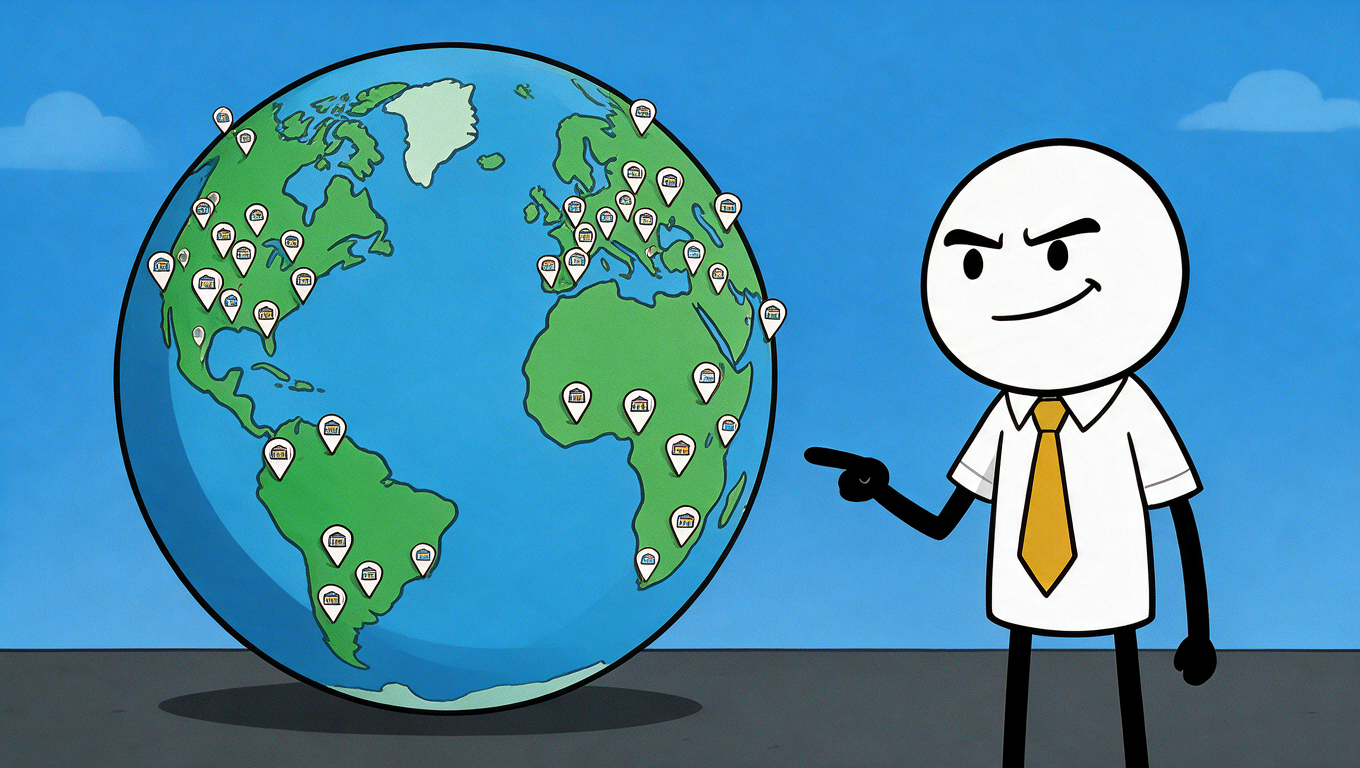
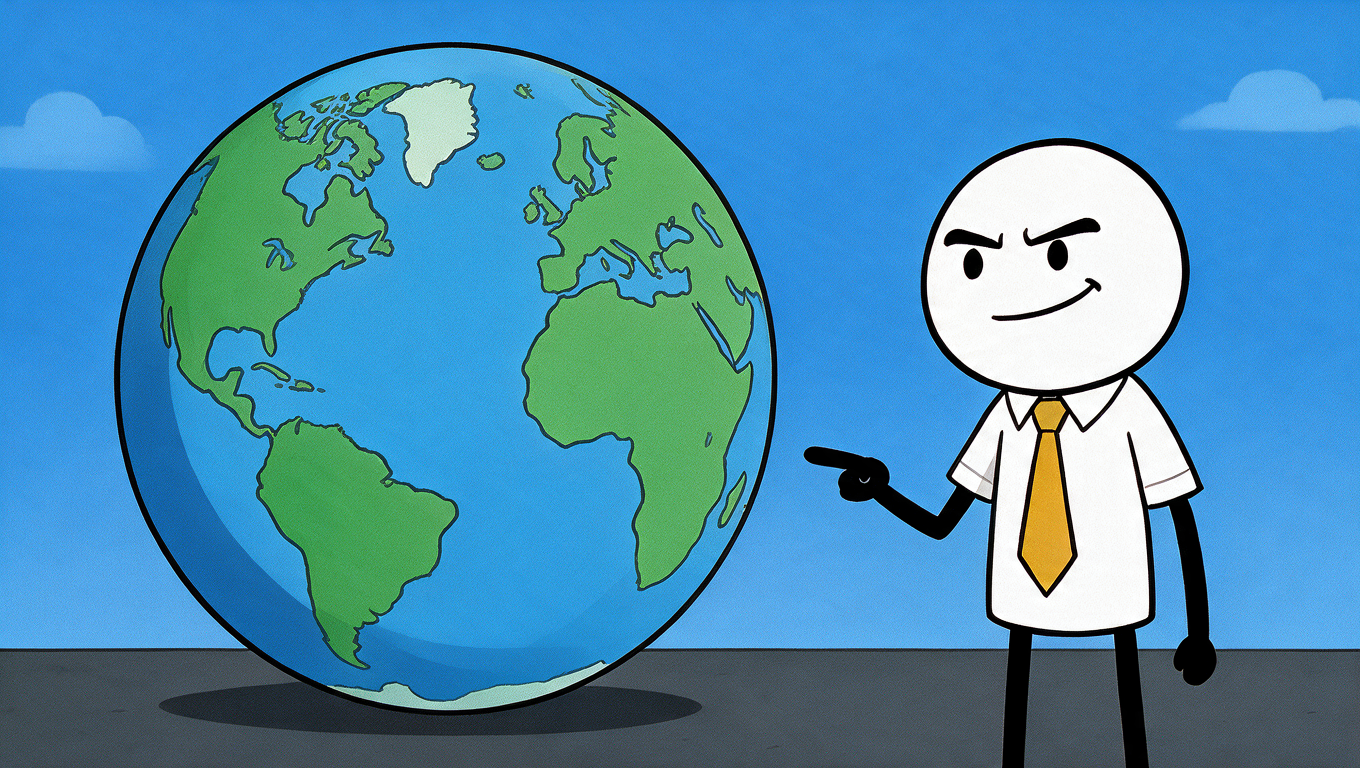
Second round of image fixes (21, 37, 68, 108, 143)
21 pins removed and 68 shopper entering a different store (redrawn);
37 $ re-centred; 108 reuses 152 with MEMBERSHIP PAID badge;
143 NEBRASKA painted on the green sign.

Claude-Session: https://claude.ai/code/session_01QeWQ4oXy3C13p7sQjRRZZK

diff --git a/videos/costco-hot-dog/assembly/overlays.py b/videos/costco-hot-dog/assembly/overlays.py
@@ -17,12 +17,13 @@ SIGNS = {
           dict(center=(0.560, 0.358), size=(0.110, 0.115), rot=5, text="$", style="money"),
           dict(center=(0.735, 0.566), size=(0.093, 0.154), text="$", style="money"),
           dict(center=(0.890, 0.328), size=(0.105, 0.116), text="$", style="money")],
-    37:  [dict(center=(0.488, 0.195), size=(0.17, 0.13), rot=8, text="$", style="money")],
+    37:  [dict(center=(0.489, 0.219), size=(0.20, 0.15), rot=8, text="$", style="money")],
     63:  [dict(center=(0.175, 0.536), size=(0.20, 0.21), rot=1, text="$", style="money_up")],
     74:  [dict(center=(0.338, 0.628), size=(0.23, 0.28), rot=3, text="$", style="money_up")],
     99:  [dict(center=(0.474, 0.462), size=(0.22, 0.40), text="$", style="money_up")],
     100: [dict(center=(0.505, 0.423), size=(0.31, 0.33), rot=1, text="$1.50", **PRICE)],
     104: [dict(center=(0.526, 0.430), size=(0.24, 0.16), rot=15, text="MEMBERSHIP", style="ticket")],
+    143: [dict(center=(0.314, 0.367), size=(0.33, 0.30), rot=-2, text="NEBRASKA", style="highway")],
     69:  [dict(rect=(0.255, 0.150, 0.635, 0.660), text="$1.50", **PRICE)],
     92:  [dict(rect=(0.570, 0.160, 0.835, 0.685), text="$1.50", **PRICE)],
     94:  [dict(center=(0.330, 0.560), size=(0.20, 0.30), rot=-22, text="$1.50", **PRICE)],
@@ -34,7 +35,7 @@ SIGNS = {
 }
 
 # Reused shots: (source image, signs from that source apply too)
-REUSE = {2: 1, 45: 12, 95: 92, 167: 1}
+REUSE = {2: 1, 45: 12, 95: 92, 108: 152, 167: 1}
 
 LABELS = {
     2:   [dict(kind="stamp", text="40 YEARS", pos=(0.70, 0.30))],
@@ -59,9 +60,9 @@ LABELS = {
     93:  [dict(kind="year", text="2025"), dict(kind="tag", text="BACK TO COKE")],
     95:  [dict(kind="stamp", text="STILL $1.50", pos=(0.30, 0.30))],
     96:  [dict(kind="year", text="2026"), dict(kind="tag", text="+ WATER OPTION")],
+    108: [dict(kind="paid", text="MEMBERSHIP PAID", pos=(0.30, 0.15))],
     133: [dict(kind="year", text="SINCE 2009")],
     138: [dict(kind="name", text="RICHARD GALANTI", sub="Costco's former CFO")],
-    143: [dict(kind="tag", text="FREMONT, NEBRASKA")],
     144: [dict(kind="tag", text="OPENED 2019")],
     147: [dict(kind="tag", text="UP TO 2 MILLION / WEEK")],
     148: [dict(kind="sticker", text="$4.99", pos=(0.49, 0.40))],

diff --git a/videos/costco-hot-dog/assembly/draw.py b/videos/costco-hot-dog/assembly/draw.py
@@ -82,6 +82,9 @@ def paint_sign(img, spec):
             x = lc[0] - bw / 2 + cw * (c + 0.5)
             y = lc[1] - bh / 2 + rh * (r + 0.5)
             draw_text(d, (x, y + rh * 0.04), str(i + 1), f, fill=INK)
+    elif style == "highway":
+        f, s = fit_font("Anton", spec["text"], bw * 0.86, bh * 0.50)
+        draw_text(d, lc, spec["text"], f, fill=WHITE)
     elif style == "ticket":
         f, s = fit_font("LuckiestGuy", spec["text"], bw * 0.88, bh * 0.60)
         draw_text(d, (lc[0], lc[1] + bh * 0.04), spec["text"], f, fill=(92, 58, 8))
@@ -158,6 +161,17 @@ def label_layer(specs):
             box = (cx - w / 2 - 30, cy - h / 2 - 24, cx + w / 2 + 30, cy + h / 2 + 24)
             rounded_box(d, box, YELLOW, width=6, r=16)
             draw_text(d, (cx, cy + 3), t, f, fill=RED)
+        elif k == "paid":
+            f = font("LuckiestGuy", 70)
+            ck = font("DejaVuSans", 70)
+            w, h, _, _ = text_size(d, t, f)
+            cw, _, _, _ = text_size(d, "\u2714", ck)
+            cx, cy = sp["pos"][0] * W, sp["pos"][1] * H
+            tw = w + 24 + cw
+            box = (cx - tw / 2 - 40, cy - h / 2 - 30, cx + tw / 2 + 40, cy + h / 2 + 30)
+            rounded_box(d, box, GREEN)
+            draw_text(d, (cx - tw / 2, cy + 4), t, f, fill=WHITE, anchor="lm")
+            draw_text(d, (cx + tw / 2 - cw, cy + 2), "\u2714", ck, fill=WHITE, anchor="lm")
         elif k == "stamp":
             f = font("LuckiestGuy", 130)
             layer = Image.new("RGBA", (W, H), (0, 0, 0, 0))
